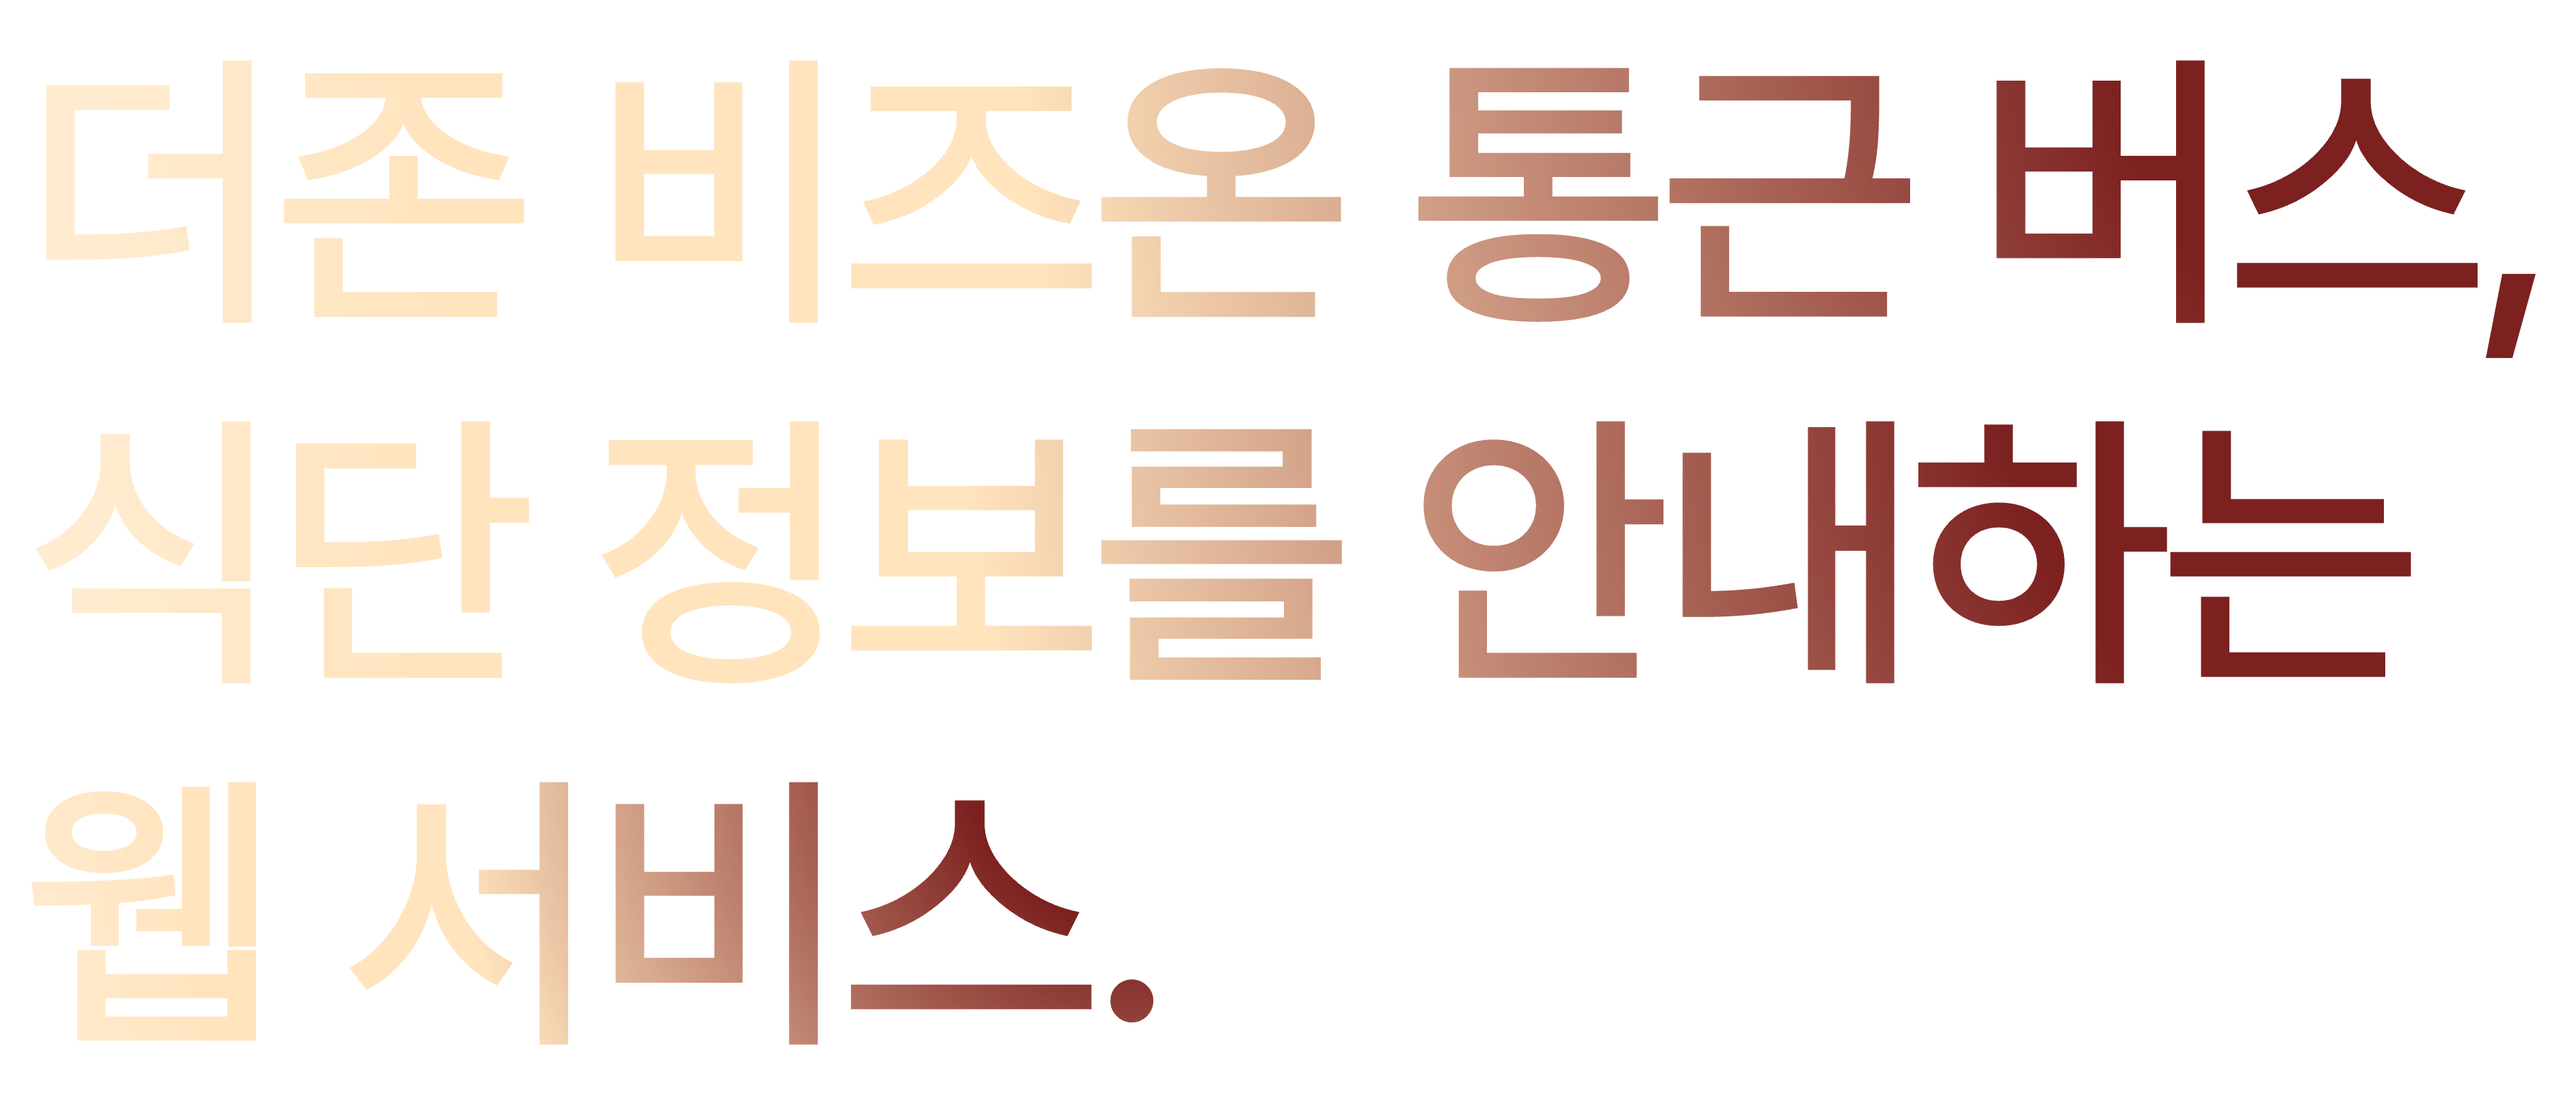
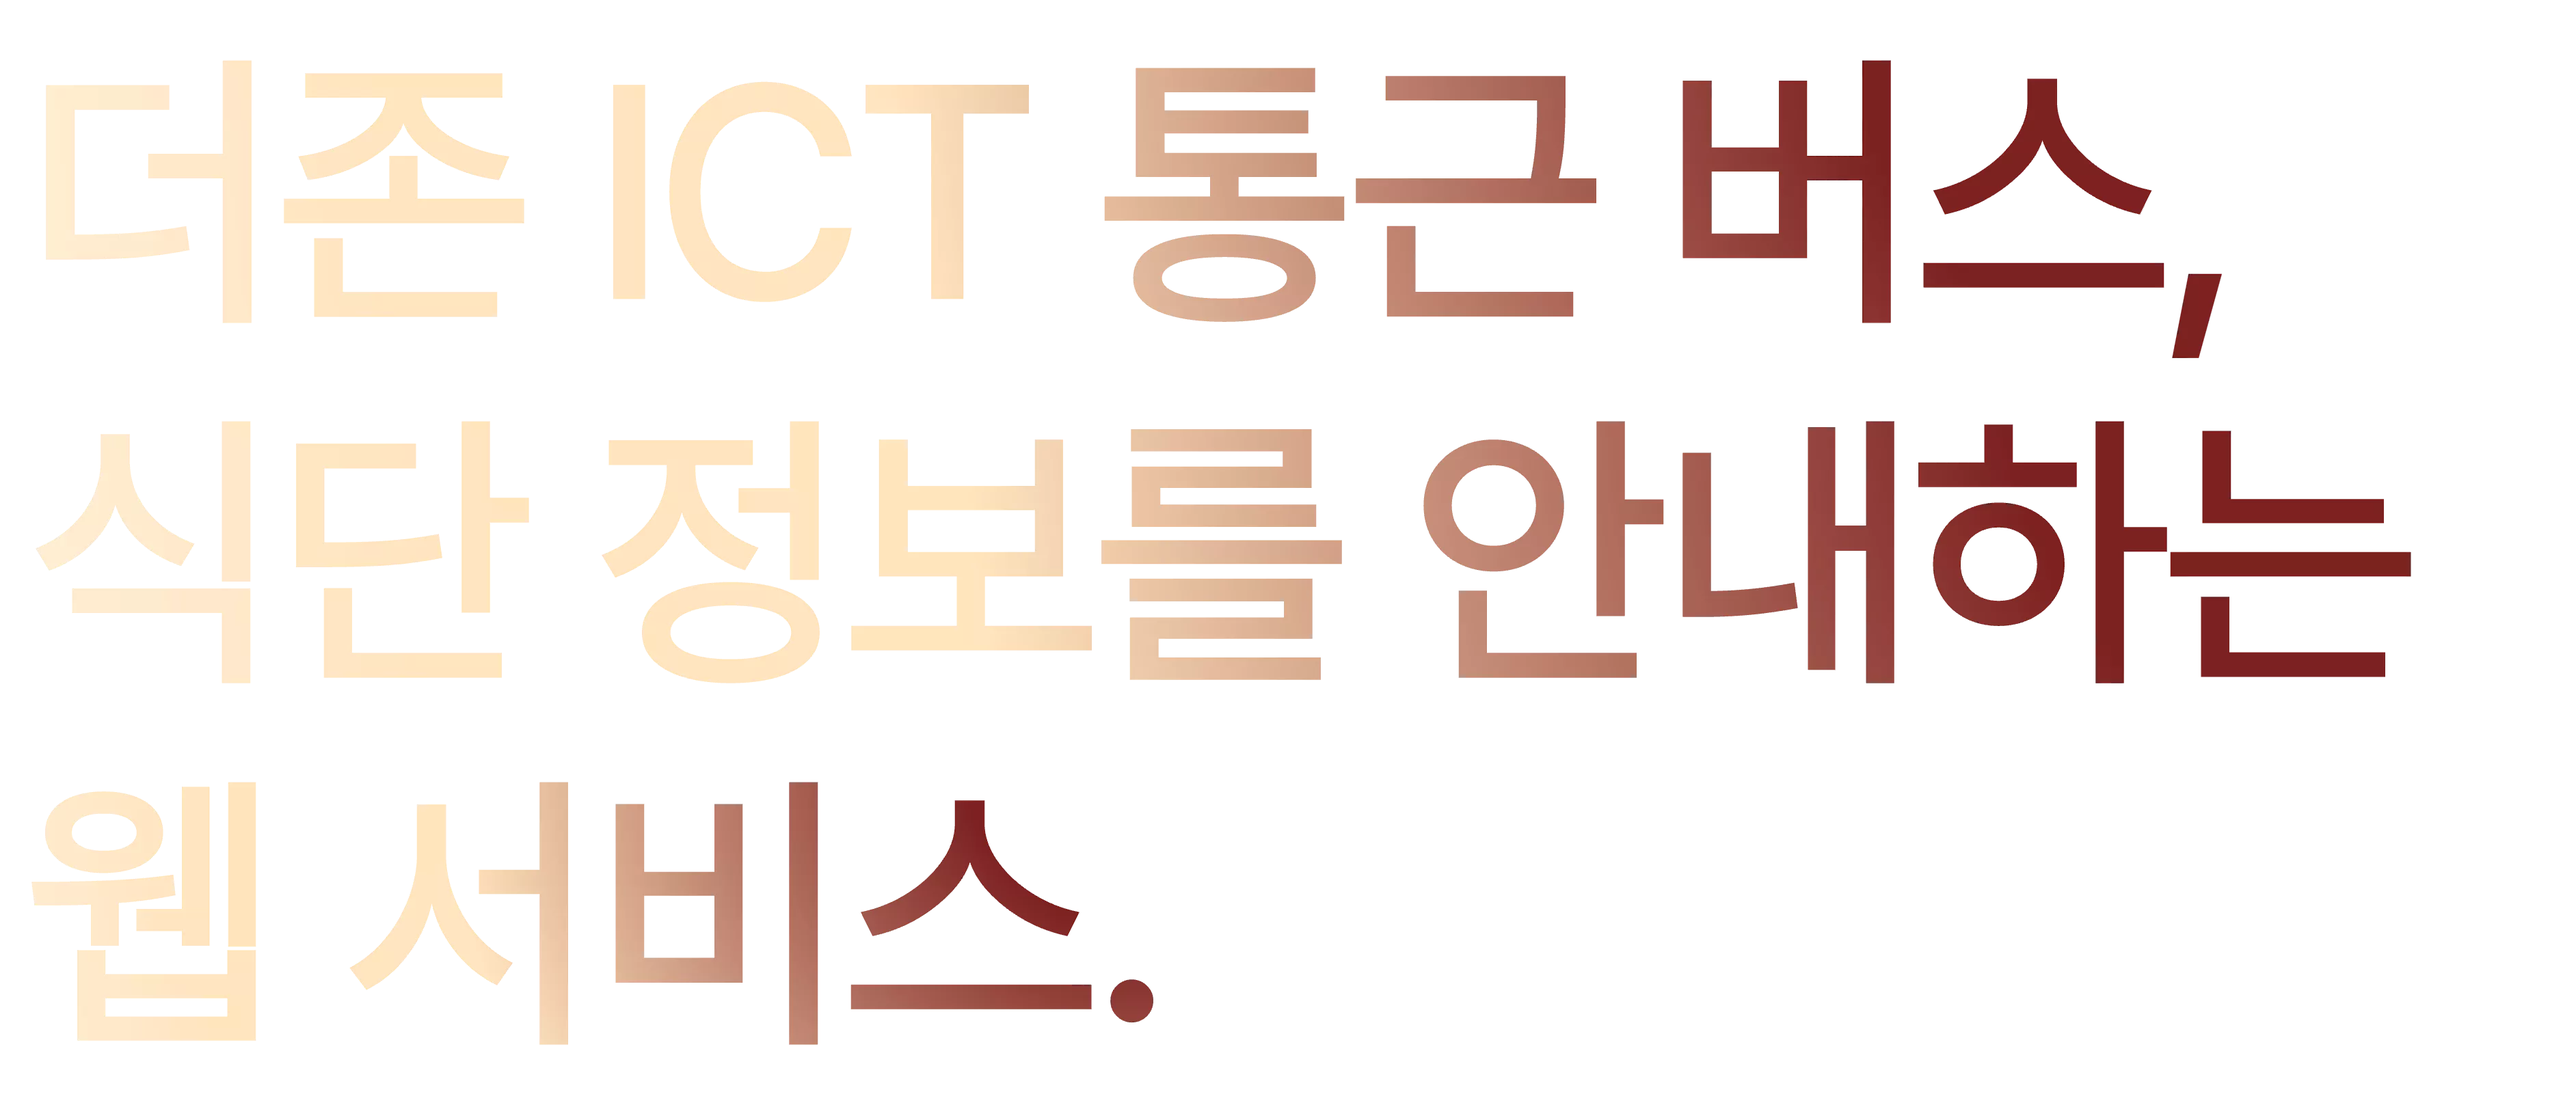
더존 빵돌이 내용 업데이트

Changed region(s): [[0.2174, 0.0625, 0.9936, 0.3123]]

diff --git a/src/page/Home.tsx b/src/page/Home.tsx
@@ -400,13 +400,25 @@ function Home({
                 <img src='/icon/breadkun-check-mark.webp' alt='check mark' />
                 Router(react-router-dom)
               </div>
+              <div>
+                <img src='/icon/breadkun-check-mark.webp' alt='check mark' />
+                반응형 웹(Responsive Web)
+              </div>
             </div>
             <div className={hs('breadkun__imgs')}>
-              <div className={hs('breadkun__imgs--wrapper')}>
-                <img src='/img/breadkun-1.webp' alt='breadkunn main page' />
-                <img src='/img/breadkun-2.webp' alt='breadkunn meal page' />
-                <img src='/img/breadkun-3.webp' alt='breadkunn bus page' />
-                <img src='/img/breadkun-5.webp' alt='breadkunn bus page' />
+              <div className={hs('breadkun__imgs--desktop')}>
+                <div className={hs('breadkun__imgs--desktop-wrapper')}>
+                  <img src='/img/breadkun-1-pc.webp' alt='breadkunn main page' />
+                  <img src='/img/breadkun-2-pc.webp' alt='breadkunn meal page' />
+                </div>
+              </div>
+              <div className={hs('breadkun__imgs--mobile')}>
+                <div className={hs('breadkun__imgs--mobile-wrapper')}>
+                  <img src='/img/breadkun-1.webp' alt='breadkunn main page' />
+                  <img src='/img/breadkun-2.webp' alt='breadkunn meal page' />
+                  <img src='/img/breadkun-3.webp' alt='breadkunn bus page' />
+                  <img src='/img/breadkun-5.webp' alt='breadkunn bus page' />
+                </div>
               </div>
             </div>
             <div className={hs('main-functions')} style={{ backgroundColor: '#7D2020' }}>
@@ -440,7 +452,7 @@ function Home({
                   통근 버스
                 </div>
                 <div className={hs('function__explanation')} style={{ color: '#a1a1a6' }}>
-                  더존비즈온 통근 버스 정보를 제공합니다. 특정 버스 노선의 정류장 위치, 실시간 도착 예정 시간을 확인할 수 있어 교통 계획을 효율적으로 조정할 수 있습니다.
+                  더존ICT 통근 버스 정보를 제공합니다. 특정 버스 노선의 정류장 위치, 실시간 도착 예정 시간을 확인할 수 있어 교통 계획을 효율적으로 조정할 수 있습니다.
                 </div>
               </div>
               <div className={hs('function')}>
@@ -448,7 +460,7 @@ function Home({
                   식단
                 </div>
                 <div className={hs('function__explanation')} style={{ color: '#a1a1a6' }}>
-                  더존비즈온 구내식당과 사내베이커리의 다양한 식단을 빠르고 간편하게 확인할 수 있어 건강한 식사 계획을 세우기에 효과적입니다.
+                  더존ICT 구내식당과 사내베이커리의 다양한 식단을 빠르고 간편하게 확인할 수 있어 건강한 식사 계획을 세우기에 효과적입니다.
                 </div>
               </div>
               <div className={hs('function')}>
@@ -456,10 +468,20 @@ function Home({
                   대시보드
                 </div>
                 <div className={hs('function__explanation')} style={{ color: '#a1a1a6' }}>
-                  대시보드에는 더존비즈온 회사 위치 기반의 날씨와 미세먼지 농도 정보가 표시됩니다. 또한, 자주 이용하는 기능에 빠르게 액세스할 수 있는 단축 아이콘을 제공하여
-                  편의성을 최대화합니다.
+                  대시보드에는 더존ICT 회사 위치 기반의 날씨와 미세먼지 농도 정보가 표시됩니다. 또한, 자주 이용하는 기능에 빠르게 액세스할 수 있는 단축 아이콘을 제공하여 편의성을
+                  최대화합니다.
                 </div>
               </div>
+              <div className={hs('function')}>
+                <div className={hs('function__title')} style={{ color: '#ECECEB' }}>
+                  반응형 웹
+                </div>
+                <div className={hs('function__explanation')} style={{ color: '#a1a1a6' }}>
+                  다양한 디바이스와 화면 크기에서 최적의 사용자 경험을 제공합니다. 데스크톱, 태블릿, 스마트폰 등 다양한 환경에서 편리하게 이용할 수 있습니다.
+                </div>
+              </div>
+              <div className={hs('function')} style={{ height: '0px', margin: '0px' }}></div>
+              <div className={hs('function')} style={{ height: '0px', margin: '0px' }}></div>
             </div>
           </article>
           <article className={hs('projects__siksunbi', projectsSiksunbiStyle)} ref={projectsSiksunbiRef}>
@@ -753,10 +775,7 @@ function Home({
                   캐로셀 슬라이더를 이용해 다양한 사진을 효과적으로 제공합니다.
                 </div>
               </div>
-              <div className={hs('function')}>
-                <div className={hs('function__title')} style={{ color: '#000000' }}></div>
-                <div className={hs('function__explanation')} style={{ color: '#31334b' }}></div>
-              </div>
+              <div className={hs('function')} style={{ height: '0px', margin: '0px' }}></div>
             </div>
           </article>
         </article>

diff --git a/src/style/Home.module.scss b/src/style/Home.module.scss
@@ -558,35 +558,72 @@
   }
   .projects__breadkun {
     .breadkun__imgs {
-      .breadkun__imgs--wrapper {
-        display: flex;
-        justify-content: center;
-        margin-top: 150px;
+      margin-top: 150px;
+      @include home-desktop {
+        margin-top: 130px;
+      }
+      @include home-tablet {
+        margin-top: 100px;
+      }
+      .breadkun__imgs--desktop {
+        .breadkun__imgs--desktop-wrapper {
+          display: flex;
+          justify-content: center;
+          @include home-tablet {
+            flex-wrap: wrap;
+          }
+          img + img {
+            margin-left: 30px;
+            @include home-tablet {
+              margin-left: 0px;
+              margin-top: 30px;
+            }
+          }
+          img {
+            height: 350px;
+            @include home-desktop {
+              height: 300px;
+            }
+            @include home-mobile {
+              width: 80%;
+              height: auto;
+            }
+          }
+        }
+      }
+      .breadkun__imgs--mobile {
+        margin-top: 80px;
         @include home-desktop {
-          margin-top: 130px;
+          margin-top: 60px;
         }
-        @include home-tablet {
-          flex-wrap: wrap;
-          margin-top: 100px;
+        @include home-mobile {
+          margin-top: 30px;
         }
-        img + img {
-          margin-left: 30px;
+        .breadkun__imgs--mobile-wrapper {
+          display: flex;
+          justify-content: center;
           @include home-tablet {
-            margin-left: 0px;
+            flex-wrap: wrap;
           }
-        }
-        img {
-          height: 500px;
-          @include home-desktop {
-            height: 450px;
+          img + img {
+            margin-left: 30px;
+            @include home-tablet {
+              margin-left: 0px;
+            }
           }
-          @include home-tablet {
-            height: 550px;
-            padding: 15px;
-          }
-          @include home-mobile {
-            width: 70%;
-            height: auto;
+          img {
+            height: 500px;
+            @include home-desktop {
+              height: 450px;
+            }
+            @include home-tablet {
+              height: 550px;
+              padding: 15px;
+            }
+            @include home-mobile {
+              width: 70%;
+              height: auto;
+            }
           }
         }
       }
